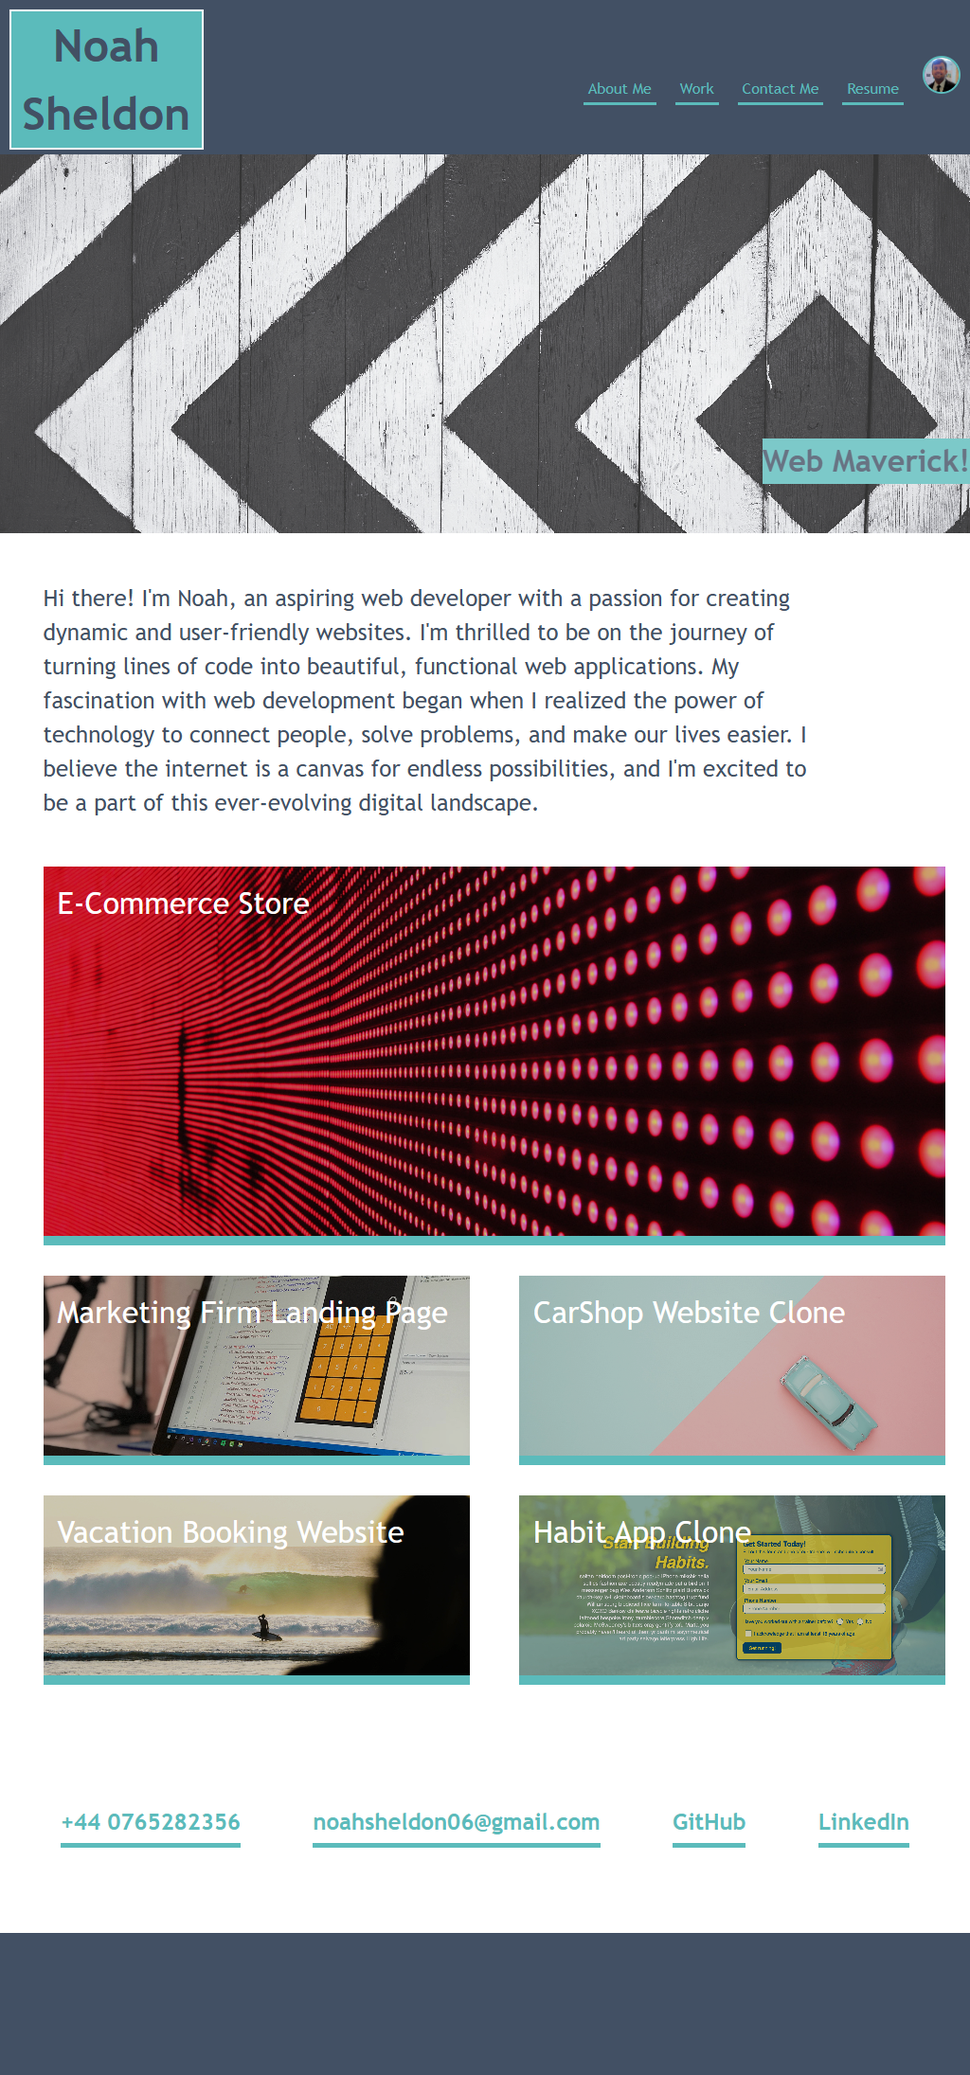
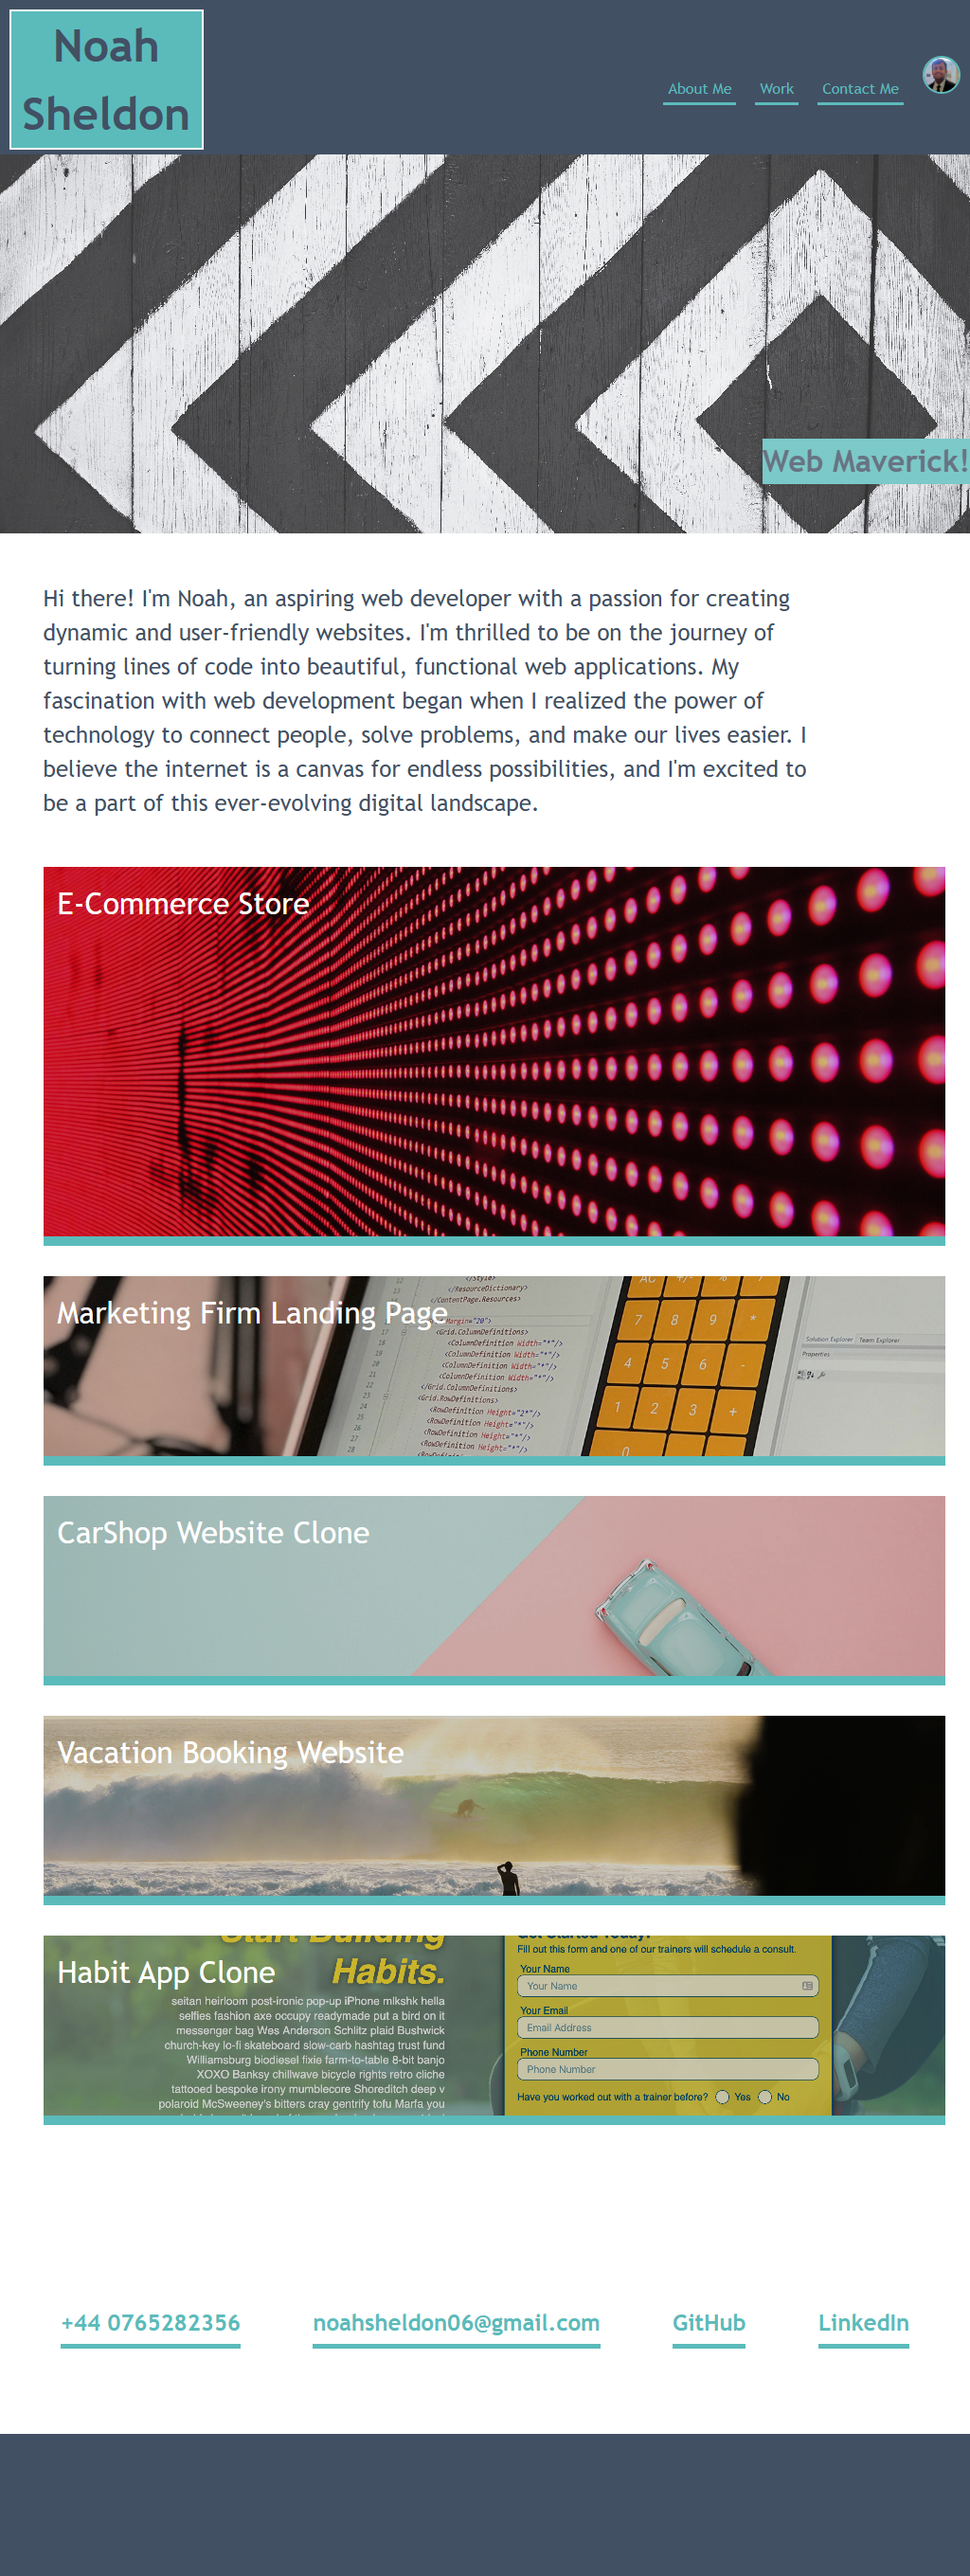
fixed grid

diff --git a/css/style.css b/css/style.css
@@ -233,6 +233,18 @@ p {
     display: none;
   }
 
+  #grid {
+    width: 100%;
+    display: grid;
+    grid-template-columns:  1fr;
+    gap: 2rem;
+    grid-template-rows: 400px 200px 200px 200px 200px;
+    grid-template-areas: "project-1"
+      "project-2" 
+      "project-3"
+      "project-4" 
+      "project-5";
+  }
 
 }
 
